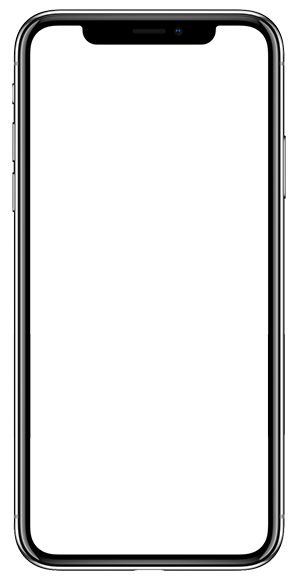
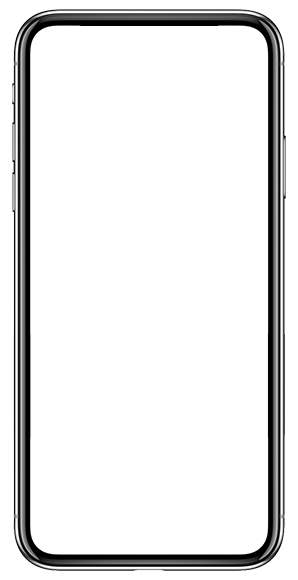
make it possible

Changed region(s): [[0.2718, 0.031, 0.7248, 0.0931]]

diff --git a/components/bec2.jsx b/components/bec2.jsx
@@ -4,7 +4,8 @@ import React from "react";
 import AnimatedText from "react-animated-text-content";
 import Script from "next/script";
 import { Dialog, Transition } from '@headlessui/react'
-import { Fragment, useState } from 'react'
+import { Fragment, useState } from 'react';
+import Contactus from "../components/Contactus";
 
 export default function Bec2() {
   const [isOpen, setIsOpen] = useState(false);
@@ -36,7 +37,7 @@ export default function Bec2() {
                   interval={0.06}
                   duration={0.8}
                   tag="p"
-                  className="animated-paragraph text-4xl leading-10  md:text-2xl  mt-1 lg:text-4xl 2xl:text-6xl monofont pb-2 md:pb-5 lg:pl-20"
+                  className="animated-paragraph text-4xl leading-10  md:text-2xl  mt-1 lg:text-5xl 2xl:text-6xl monofont pb-2 md:pb-5 lg:pl-20"
                   includeWhiteSpaces
                   threshold={0.1}
                   rootMargin="20%"
@@ -55,7 +56,7 @@ export default function Bec2() {
                   interval={0.06}
                   duration={0.8}
                   tag="p"
-                  className="animated-paragraph text-4xl leading-10  md:text-3xl lg:text-4xl 2xl:text-6xl monofont pb-2 md:pb-5 pink-color md:pl-5"
+                  className="animated-paragraph text-4xl leading-10  md:text-3xl lg:text-5xl 2xl:text-6xl monofont pb-2 md:pb-5 pink-color md:pl-5"
                   includeWhiteSpaces
                   threshold={0.1}
                   rootMargin="20%"
@@ -72,7 +73,7 @@ export default function Bec2() {
                   ease: "ease",
                   scale: 1.06,
                 }}
-                className="md:leading-8 text-[15px] lg:pl-20"
+                className="md:leading-8 text-[18px] lg:pl-20"
               >
                 Create an account and we’ll get you started in no time!
               </AnimatedText>
@@ -85,18 +86,18 @@ export default function Bec2() {
                   ease: "ease",
                   scale: 1.06,
                 }}
-                className="md:leading-8 text-[14px] lg:pl-20"
+                className="md:leading-8 text-[17px] tracking-tight lg:pl-20"
               >
                 More features, profit and freedom - with dedicated support in
                 everything.
               </AnimatedText>
 
-              <button  onClick={openModal} className="mb-5 mt-4 px-5 py-2 text-xs font-medium rounded-md button button--moema button--text-upper lg:ml-20">
+              <button  onClick={openModal} className="mb-5 mt-4 px-5 py-2 text-sm font-medium rounded-md button button--moema button--text-upper lg:ml-20">
                 Create an account
               </button>
               <Transition appear show={isOpen} as={Fragment}>
         <Dialog as="div" className="relative z-10" onClose={closeModal}>
-          <Transition.Child
+        <Transition.Child
             as={Fragment}
             enter="ease-out duration-300"
             enterFrom="opacity-0"
@@ -105,7 +106,7 @@ export default function Bec2() {
             leaveFrom="opacity-100"
             leaveTo="opacity-0"
           >
-            <div className="fixed inset-0 bg-black bg-opacity-25" />
+            <div className="fixed inset-0 bg-black bg-opacity-80" />
           </Transition.Child>
 
           <div className="fixed inset-0 overflow-y-auto">
@@ -119,34 +120,24 @@ export default function Bec2() {
                 leaveFrom="opacity-100 scale-100"
                 leaveTo="opacity-0 scale-95"
               >
-                <Dialog.Panel className="w-full max-w-md transform overflow-hidden rounded-2xl card-bg p-6 text-left align-middle shadow-xl transition-all">
-                  {/* <Dialog.Title
-                    as="h3"
-                    className="text-lg font-medium leading-6 text-gray-900"
-                  >
-                    Payment successful
-                  </Dialog.Title> */}
-                  <div className="mt-2">
-                  <form>
-                  <div className="mb-6">
-    <label htmlFor="Name" className="block mb-2 text-sm font-medium text-white">Name</label>
-    <input type="text" id="name" className="bg-transparent border border-[#d8aaf8] text-white text-sm rounded-lg   block w-full p-2.5  dark:text-white  " required />
-  </div>
-  <div className="mb-6">
-    <label htmlFor="email" className="block mb-2 text-sm font-medium text-white">Email</label>
-    <input type="email" id="email" className="bg-transparent border border-[#d8aaf8] text-white text-sm rounded-lg   block w-full p-2.5  dark:text-white " placeholder="name@flowbite.com" required />
-  </div>
-  <div className="mb-6">
-    <label htmlFor="message" className="block mb-2 text-sm font-medium text-white">Message</label>
-    <input type="text" id="message" className="bg-transparent border border-[#d8aaf8] text-white text-sm rounded-lg block w-full p-2.5  dark:text-white " required />
-  </div>
-  
-  
-  <button type="submit" className="text-[#d8aaf8] bg-transparent border  border-[#d8aaf8]  font-medium rounded-lg text-sm w-full sm:w-auto px-5 py-2.5 text-center  ">Submit</button>
-</form>
-                  </div>
-
+                <Dialog.Panel className="w-[600px] max-w-2xl  transform overflow-hidden rounded-2xl card-bg p-6 text-left align-middle shadow-xl transition-all">
+                
+                <div className='float-right'>          <svg  onClick={closeModal} xmlns="http://www.w3.org/2000/svg" className="h-5 w-5 text-[#d8aaf8]  " viewBox="0 0 20 20" fill="currentColor">
+  <path fillRule="evenodd" d="M4.293 4.293a1 1 0 011.414 0L10 8.586l4.293-4.293a1 1 0 111.414 1.414L11.414 10l4.293 4.293a1 1 0 01-1.414 1.414L10 11.414l-4.293 4.293a1 1 0 01-1.414-1.414L8.586 10 4.293 5.707a1 1 0 010-1.414z" clipRule="evenodd" />
+</svg>
+      </div>
+               
+                
+                <div className='p-10'>
+                <div className='text-center ' >
                   
+                  <p className='text-white text-xs font-medium hind mb-5'>The LOF platform is in development! 
+Fill the form below to be among the first content creators to be notified as soon as we are ready to launch!
+</p>
+                </div>
+                <Contactus />
+                </div>
+               
                 </Dialog.Panel>
               </Transition.Child>
             </div>
@@ -155,7 +146,7 @@ export default function Bec2() {
       </Transition>
             </div>
             <div className="basis-6/12 pt-20 ">
-            <img src="/assets/be-slider/sec-2.png" alt="" />
+            <img src="/assets/be-slider/model.png" alt="" />
             </div>
           </div>
         </section>

diff --git a/components/bec.jsx b/components/bec.jsx
@@ -86,7 +86,7 @@ export default function Bec() {
                   ease: "ease",
                   scale: 1.06,
                 }}
-                className="md:leading-8 text-[17px] lg:pl-20"
+                className="md:leading-8 tracking-tight text-[17px] lg:pl-20"
               >
                 More features, profit and freedom - with dedicated support in
                 everything.
@@ -130,8 +130,10 @@ export default function Bec() {
                 
                 <div className='p-10'>
                 <div className='text-center ' >
-                  <h1 className='text-[#d8aaf8] text-2xl font-semibold my-5 mono-font'>Contact us</h1>
-                  <p className='text-white text-xs font-medium hind mb-5'>Got question? We’d love to hear from you. Send us a message and we’ll respond as soon as possible.</p>
+                  
+                  <p className='text-white text-xs font-medium hind mb-5'>The LOF platform is in development! 
+Fill the form below to be among the first content creators to be notified as soon as we are ready to launch!
+</p>
                 </div>
                 <Contactus />
                 </div>
@@ -143,8 +145,8 @@ export default function Bec() {
         </Dialog>
       </Transition>
             </div>
-            <div className="basis-6/12 pt-20 ">
-            <img src="/assets/be-slider/sec-1.png" alt="" />
+            <div className="basis-6/12 pt-20 my-auto 2xl:mt-40">
+            <img src="/assets/be-slider/Images.png" alt="" />
             </div>
           </div>
         </section>

diff --git a/components/Lofplatform.jsx b/components/Lofplatform.jsx
@@ -57,12 +57,12 @@ export default function Lofplatform() {
       </Head>
       <div className="bg-dark " id="Lof-platform">
         <div className="container-fluid ">
-          <div className=" text-white pt-28 md:pt-56 lg:pt-32 w-full mbl-resp-plat">
+          <div className=" text-white pt-48 md:pt-56 lg:pt-32 w-full mbl-resp-plat">
             <div className="col  text-center" >
               <h1 className="text-3xl monofont leading-8 -m-5">
                 LOF <span className="pink-color">platform</span>
               </h1>
-              <p className="text-[12px] md:text-sm tracking-normal leading-6 mx-auto txt-hide  w-12/12 md:w-[60%] lg:w-[37%] xl:w-[50%] 2xl:w-[37%] pt-8 font-light ">
+              <p className="text-[12px] md:text-sm hidden md:block tracking-normal leading-6 mx-auto txt-hide  w-12/12 md:w-[60%] lg:w-[37%] xl:w-[50%] 2xl:w-[37%] pt-8 font-light ">
                 {/* Create a free account and start browsing content from the
                 hottest models around the world. We have made everything
                 extremely simple and there are no hidden terms.  */}

diff --git a/components/navs/Pagesnav.jsx b/components/navs/Pagesnav.jsx
@@ -116,8 +116,10 @@ export default function Example() {
                 
                 <div className='p-10'>
                 <div className='text-center ' >
-                  <h1 className='text-[#d8aaf8] text-2xl font-semibold my-5 mono-font'>Contact us</h1>
-                  <p className='text-white text-xs font-medium hind mb-5'>Got question? We’d love to hear from you. Send us a message and we’ll respond as soon as possible.</p>
+                  
+                  <p className='text-white text-xs font-medium hind mb-5'>The LOF platform is in development! 
+Fill the form below to be among the first content creators to be notified as soon as we are ready to launch!
+</p>
                 </div>
                 <Contactus />
                 </div>

diff --git a/components/navs/nav.jsx b/components/navs/nav.jsx
@@ -117,8 +117,10 @@ function openModal() {
                 
                 <div className='p-10'>
                 <div className='text-center ' >
-                  <h1 className='text-[#d8aaf8] text-2xl font-semibold my-5 mono-font'>Contact us</h1>
-                  <p className='text-white text-xs font-medium hind mb-5'>Got question? We’d love to hear from you. Send us a message and we’ll respond as soon as possible.</p>
+                  
+                  <p className='text-white text-xs font-medium hind mb-5'>The LOF platform is in development! 
+Fill the form below to be among the first content creators to be notified as soon as we are ready to launch!
+</p>
                 </div>
                 <Contactus />
                 </div>

diff --git a/components/Fullscroll.js b/components/Fullscroll.js
@@ -19,7 +19,7 @@ import Bec from "./bec";
 import { Parallax, Pagination, Navigation, Mousewheel } from "swiper";
 import Footer from "./navs/Footer";
 // import Faq2 from "./Faq2";
-// import Bec2 from "./bec2";
+import Bec2 from "./bec2";
 // import Bec3 from "./bec3";
 // import { Head } from "next/document";
 
@@ -70,10 +70,10 @@ export default function Fullscroll() {
           
           <Bec/>
         </SwiperSlide>
-        {/* <SwiperSlide className="home-bg">
+        <SwiperSlide className="home-bg">
          
           <Bec2/>
-        </SwiperSlide> */}
+        </SwiperSlide>
         {/* <SwiperSlide className="home-bg">
          
           <Bec3/>

diff --git a/styles/globals.css b/styles/globals.css
@@ -211,8 +211,8 @@ a {
 	.swiper-full-mobile:before {
 	content: "";
 	/* width: 265px; */
-	width: 267px;
-	background: url(../public//assets/pl-slider/Silver-Frame.png);
+	width: 248px;
+	background: url(../public//assets/pl-slider/frame-png.svg);
 	background-size: 100%;
 	background-repeat: no-repeat;
 	position: absolute;
@@ -307,7 +307,7 @@ a {
 	}
 	@media (min-width:1330px) and (max-width:1500px) {
 		.swiper-full-mobile:before{
-			width: 182px;
+			width: 169px;
 		}	
 	}
 

diff --git a/components/navs/Pagesfooter.jsx b/components/navs/Pagesfooter.jsx
@@ -1,6 +1,6 @@
 import React from 'react';
 import Link from "next/link";
-import Contactus from "../Contactus"
+import Contactus from "../Contactus";
 import { Dialog, Transition } from '@headlessui/react'
 import { Fragment, useState } from 'react'
 
